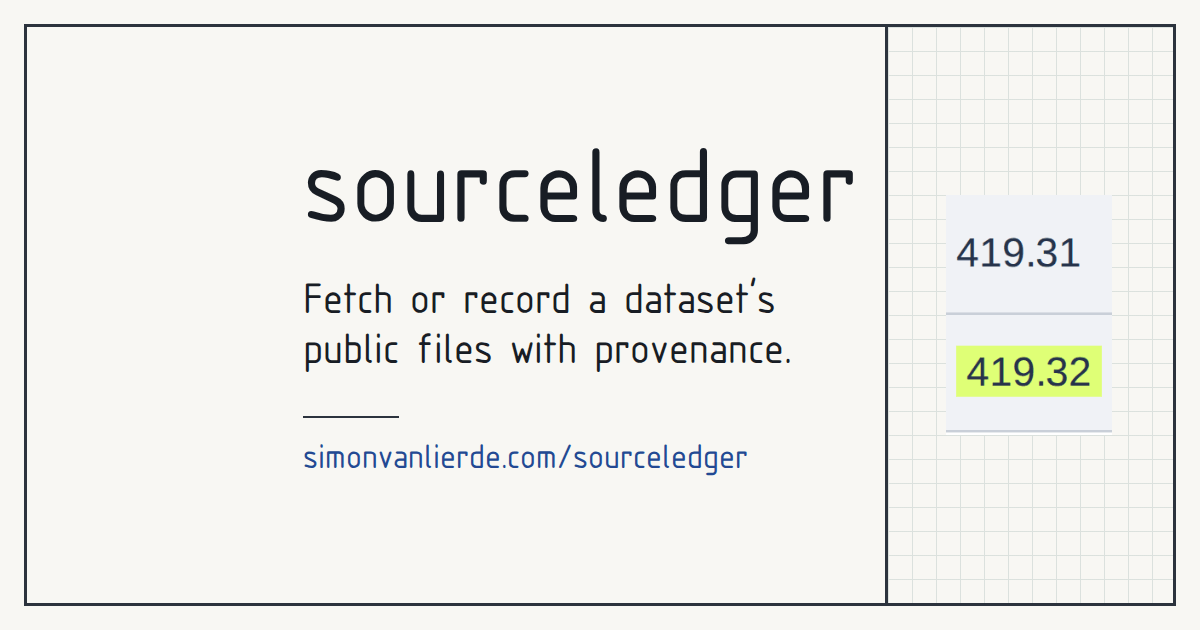
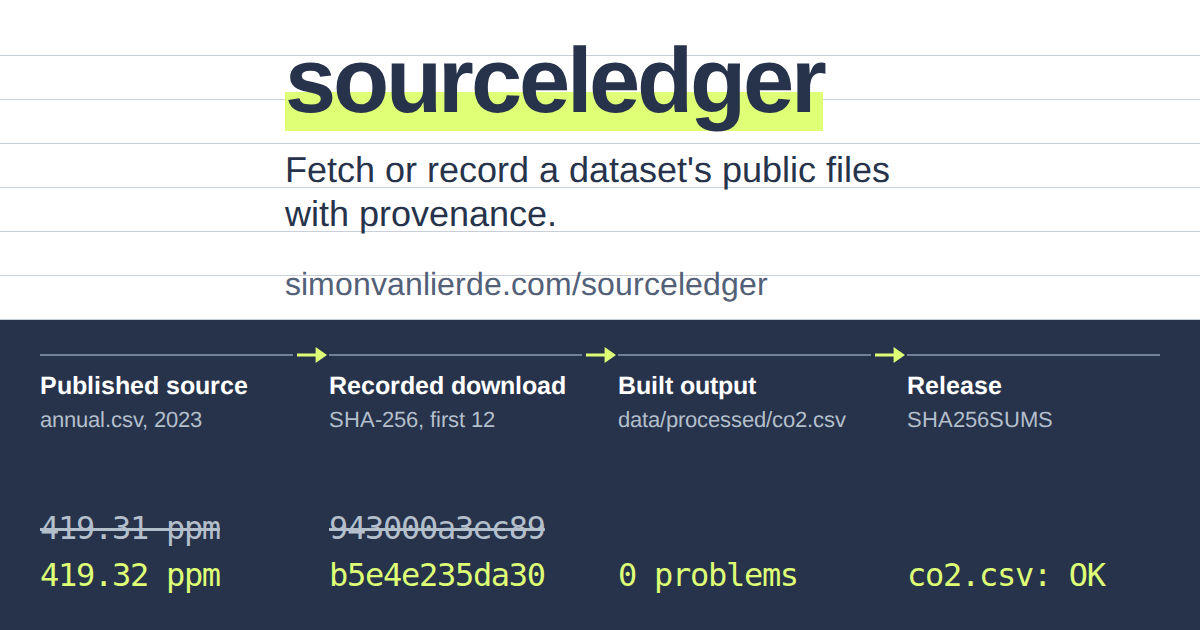
feat(site): draw the social card as a chain of custody
Links to the docs site showed no image. The card draws the revision example end to end: the published 2023 value, the SHA-256 of the recorded download, the built output and the release, with the superseded value and checksum struck out. Values come from docs/_data/revision.json.

- add docs/og-card.html as the source and a just og-card recipe to render it
- replace the generator-based Social card section in the README
- drop site/og-visual.png, which nothing else used
- describe the new card in og:image:alt

diff --git a/docs/og-card.html b/docs/og-card.html
@@ -1,0 +1,52 @@
+<!doctype html>
+<html lang="en">
+<head>
+<meta charset="utf-8">
+<title>sourceledger social card</title>
+<!-- Source of site/public/og.png. Render: see README.md, "Social card". -->
+<style>
+  @font-face { font-family: Arimo; src: url("../site/public/assets/fonts/arimo.woff2") format("woff2"); font-weight: 400 700; }
+  :root {
+    --paper: #fff; --ink: #26334b; --muted: #526078; --rule: #c9cfd8; --panel: #26334b; --accent: #dfff76; --dim: #b4bfcc; --node-rule: #718198;
+    --sans: Arimo, Helvetica, Arial, sans-serif;
+    --mono: ui-monospace, "Cascadia Code", Menlo, Consolas, "DejaVu Sans Mono", monospace;
+  }
+  * { box-sizing: border-box; margin: 0; }
+  html, body { width: 1200px; height: 630px; overflow: hidden; background: var(--paper); color: var(--ink); font-family: var(--sans); }
+  /* Ledger paper: a rule every 44 px behind the text. */
+  body { background: repeating-linear-gradient(to bottom, transparent 0 43px, var(--rule) 43px 44px) 0 12px / 100% 100% no-repeat, var(--paper); }
+  /* The name, the line and the address sit in the centred 630 px column. */
+  main { position: absolute; left: 285px; top: 0; width: 630px; height: 330px; }
+  h1 { position: absolute; top: 34px; font-size: 92px; line-height: 1; font-weight: 700; letter-spacing: -0.035em; }
+  h1 span { background: linear-gradient(transparent 62%, var(--accent) 62% 94%); }
+  .job { position: absolute; top: 148px; font-size: 36px; line-height: 44px; font-weight: 400; }
+  .url { position: absolute; top: 262px; font-size: 32px; line-height: 44px; color: var(--muted); }
+  /* The chain of custody: one source, one revision, end to end. */
+  ol { position: absolute; left: 0; right: 0; bottom: 0; height: 310px; margin: 0; padding: 34px 40px 36px; list-style: none;
+       background: var(--panel); color: #fff; display: grid; grid-template-columns: repeat(4, 1fr); gap: 36px; }
+  li { position: relative; display: flex; flex-direction: column; border-top: 2px solid var(--node-rule); padding-top: 16px; }
+  li:not(:last-child)::after { content: ""; position: absolute; top: -9px; right: -34px; width: 30px; height: 16px;
+       background: var(--accent); clip-path: polygon(0 40%, 62% 40%, 62% 0, 100% 50%, 62% 100%, 62% 60%, 0 60%); }
+  h2 { font-size: 25px; line-height: 1.1; font-weight: 700; }
+  p { margin-top: 6px; font-size: 22px; line-height: 1.25; color: var(--dim); }
+  code { display: block; font: 500 32px/1.2 var(--mono); color: var(--accent); letter-spacing: -0.04em; }
+  code.old { margin-top: auto; color: var(--dim); text-decoration: line-through; text-decoration-thickness: 3px; }
+  code:not(.old) { margin-top: 8px; }
+  code.solo { margin-top: auto; }
+</style>
+</head>
+<body>
+<main>
+  <h1><span>sourceledger</span></h1>
+  <p class="job" style="margin:0;color:var(--ink);font-size:36px">Fetch or record a dataset's public files with provenance.</p>
+  <p class="url" style="margin:0">simonvanlierde.com/sourceledger</p>
+</main>
+<!-- Values are the revision example in docs/_data/revision.json: the 2023 value and the first 12 characters of each SHA-256. -->
+<ol>
+  <li><h2>Published source</h2><p>annual.csv, 2023</p><code class="old">419.31 ppm</code><code>419.32 ppm</code></li>
+  <li><h2>Recorded download</h2><p>SHA-256, first 12</p><code class="old">943000a3ec89</code><code>b5e4e235da30</code></li>
+  <li><h2>Built output</h2><p>data/processed/co2.csv</p><code class="solo">0 problems</code></li>
+  <li><h2>Release</h2><p>SHA256SUMS</p><code class="solo">co2.csv: OK</code></li>
+</ol>
+</body>
+</html>

diff --git a/README.md b/README.md
@@ -131,16 +131,15 @@ Ideas and requests are welcome as [issues](https://github.com/simonvanlierde/sou
 
 ## Social card
 
-[`site/public/og.png`](site/public/og.png) is the 1200x630 card shown when the link is shared. It is made with the generator in
-[my site repo](https://github.com/simonvanlierde/simonvanlierde.github.io/tree/main/scripts/social-card)
-(needs Docker). The visual is the changed row of the "A one-value change leaves a trail" table (419.31 revised to 419.32, highlighted), captured from the live page at 3x and cropped tight. Astro serves `site/public/`, and `site/src/layouts/Base.astro` holds the tags. From a checkout of
-that repo, with this repo next to it:
+[`site/public/og.png`](site/public/og.png) is the 1200x630 card shown when the link is shared. It is rendered from
+[`docs/og-card.html`](docs/og-card.html), which draws the chain of custody of the revision example: the 2023 value
+and the SHA-256 of the download, each before and after the publisher's change. Edit the HTML, then run:
 
 ```sh
-pnpm gen:card --visual ../sourceledger/site/og-visual.png --name "sourceledger" \
-  --line "Fetch or record a dataset's public files with provenance." \
-  --domain simonvanlierde.com/sourceledger --out ../sourceledger/site/public/og.png --fit contain
+just og-card
 ```
+
+Astro serves `site/public/`, and `site/src/layouts/Base.astro` holds the tags.
 
 ## Development
 
